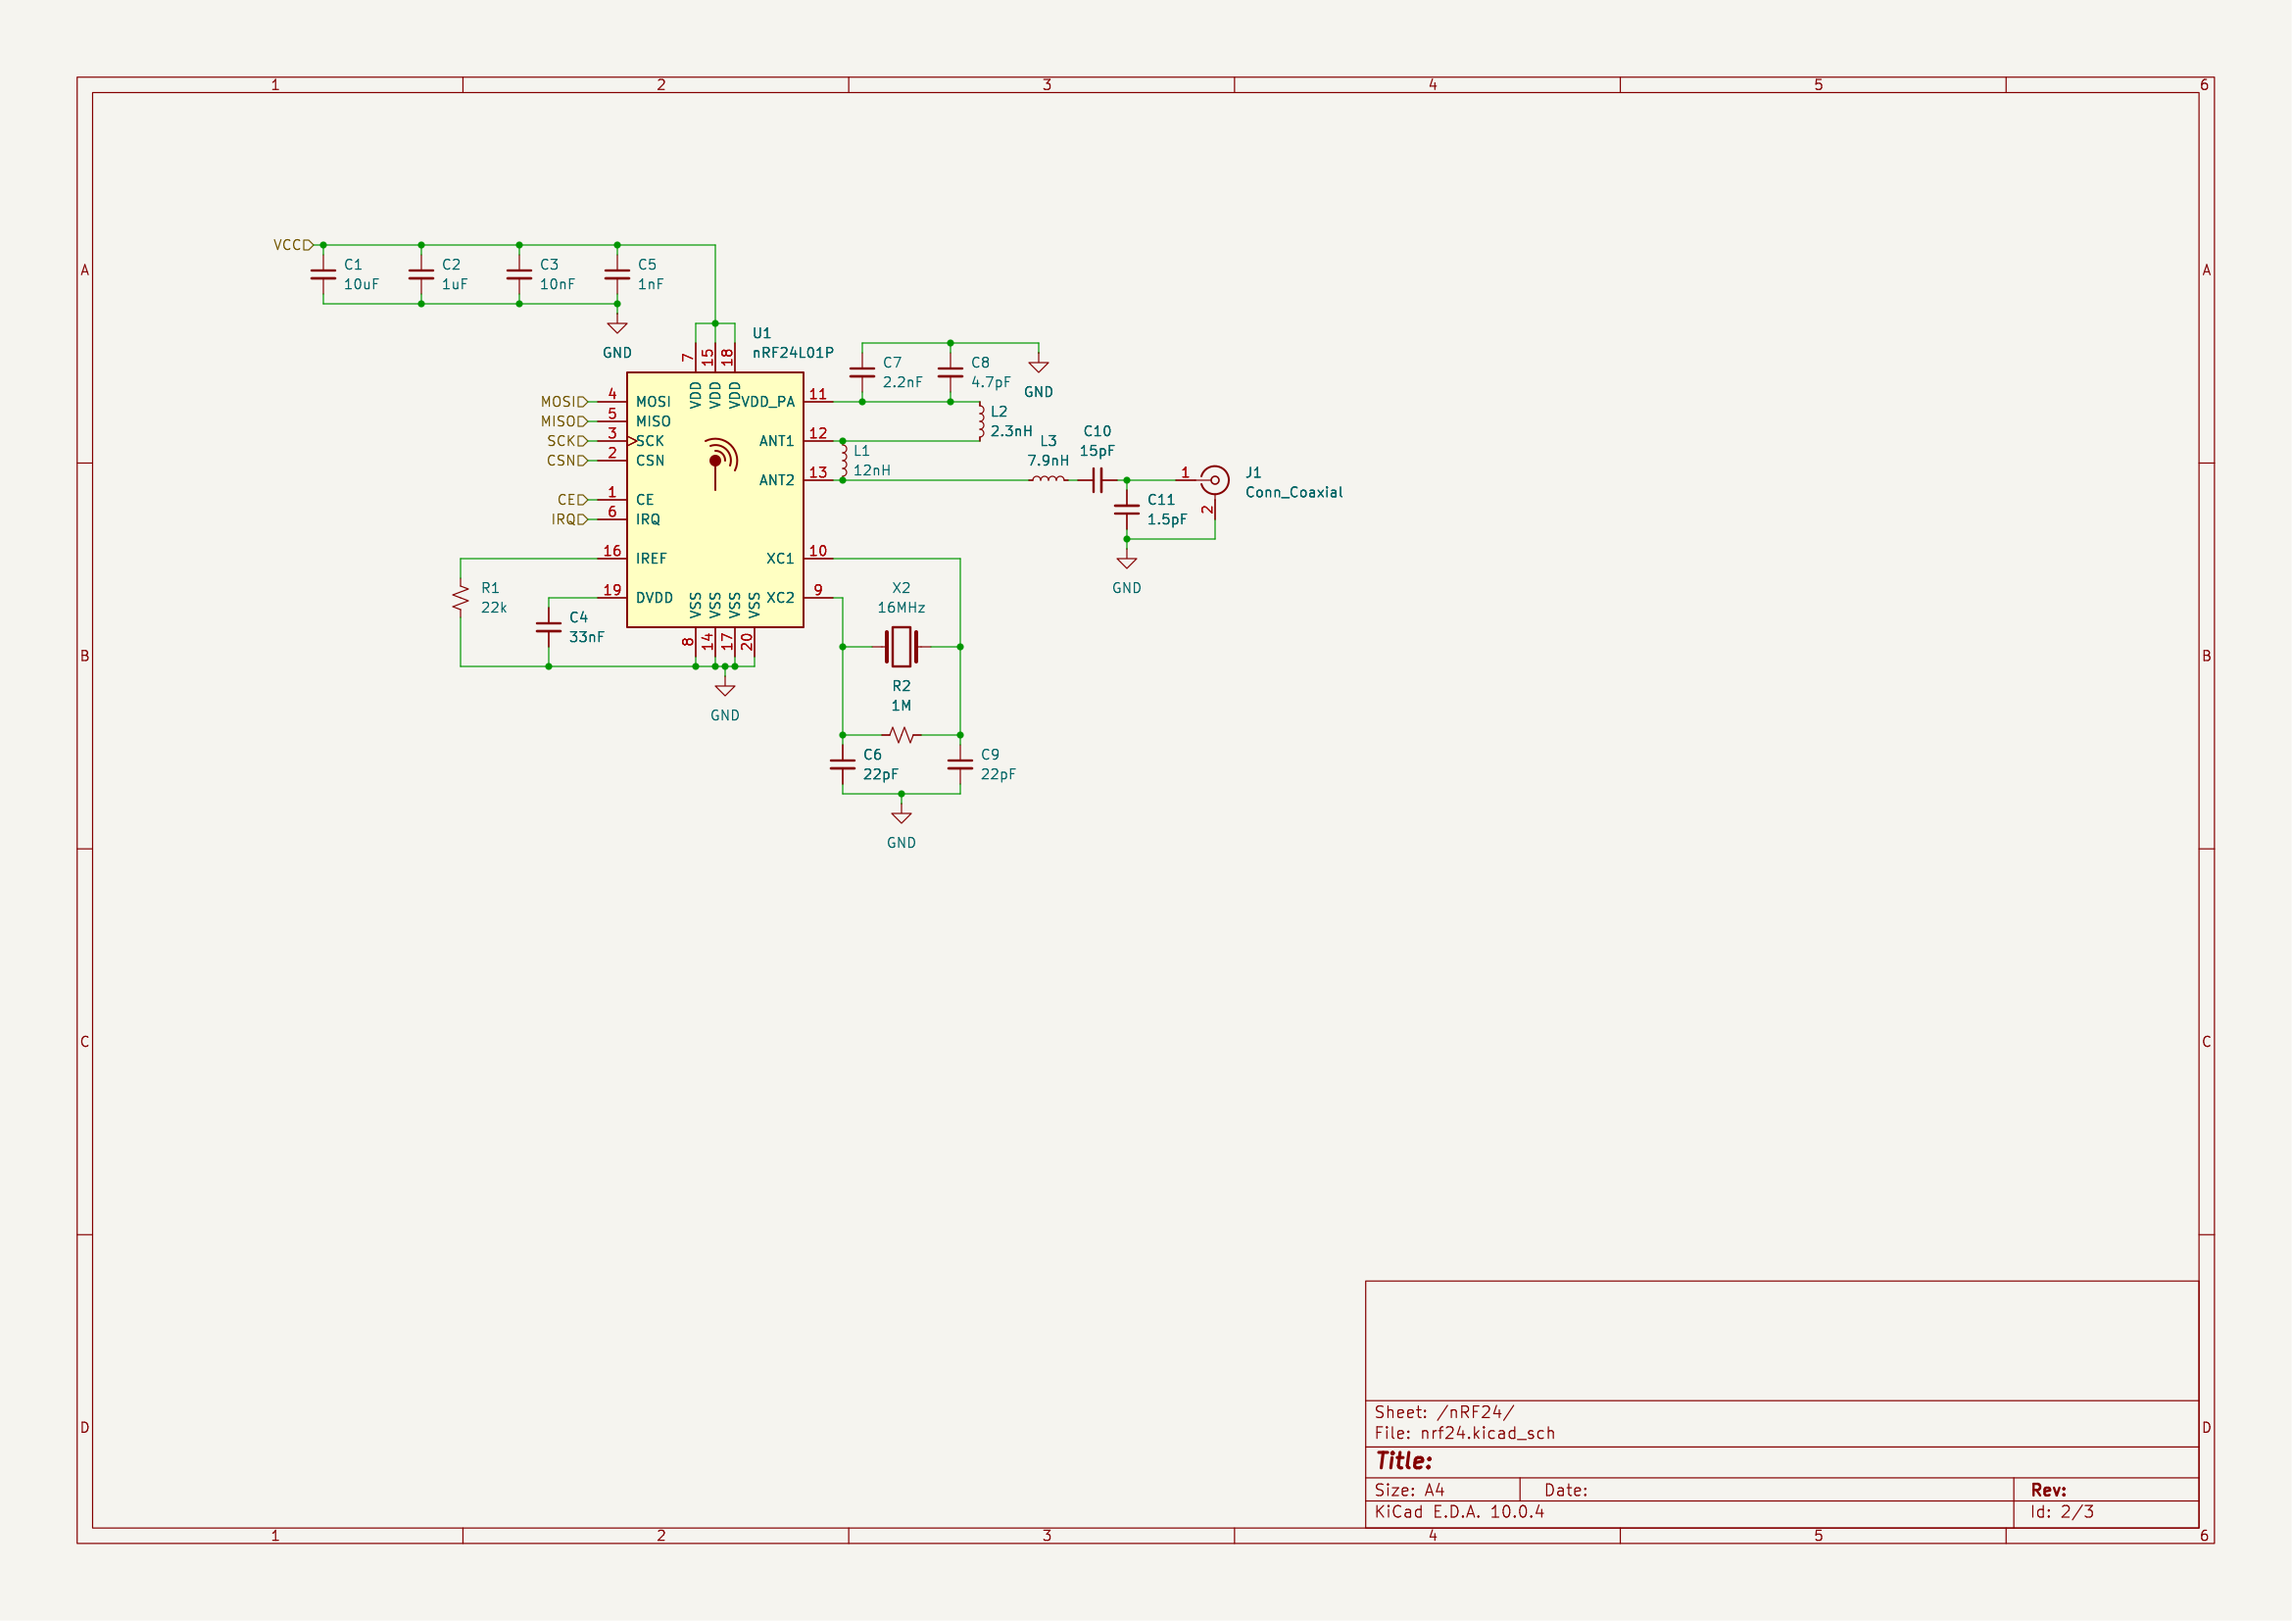
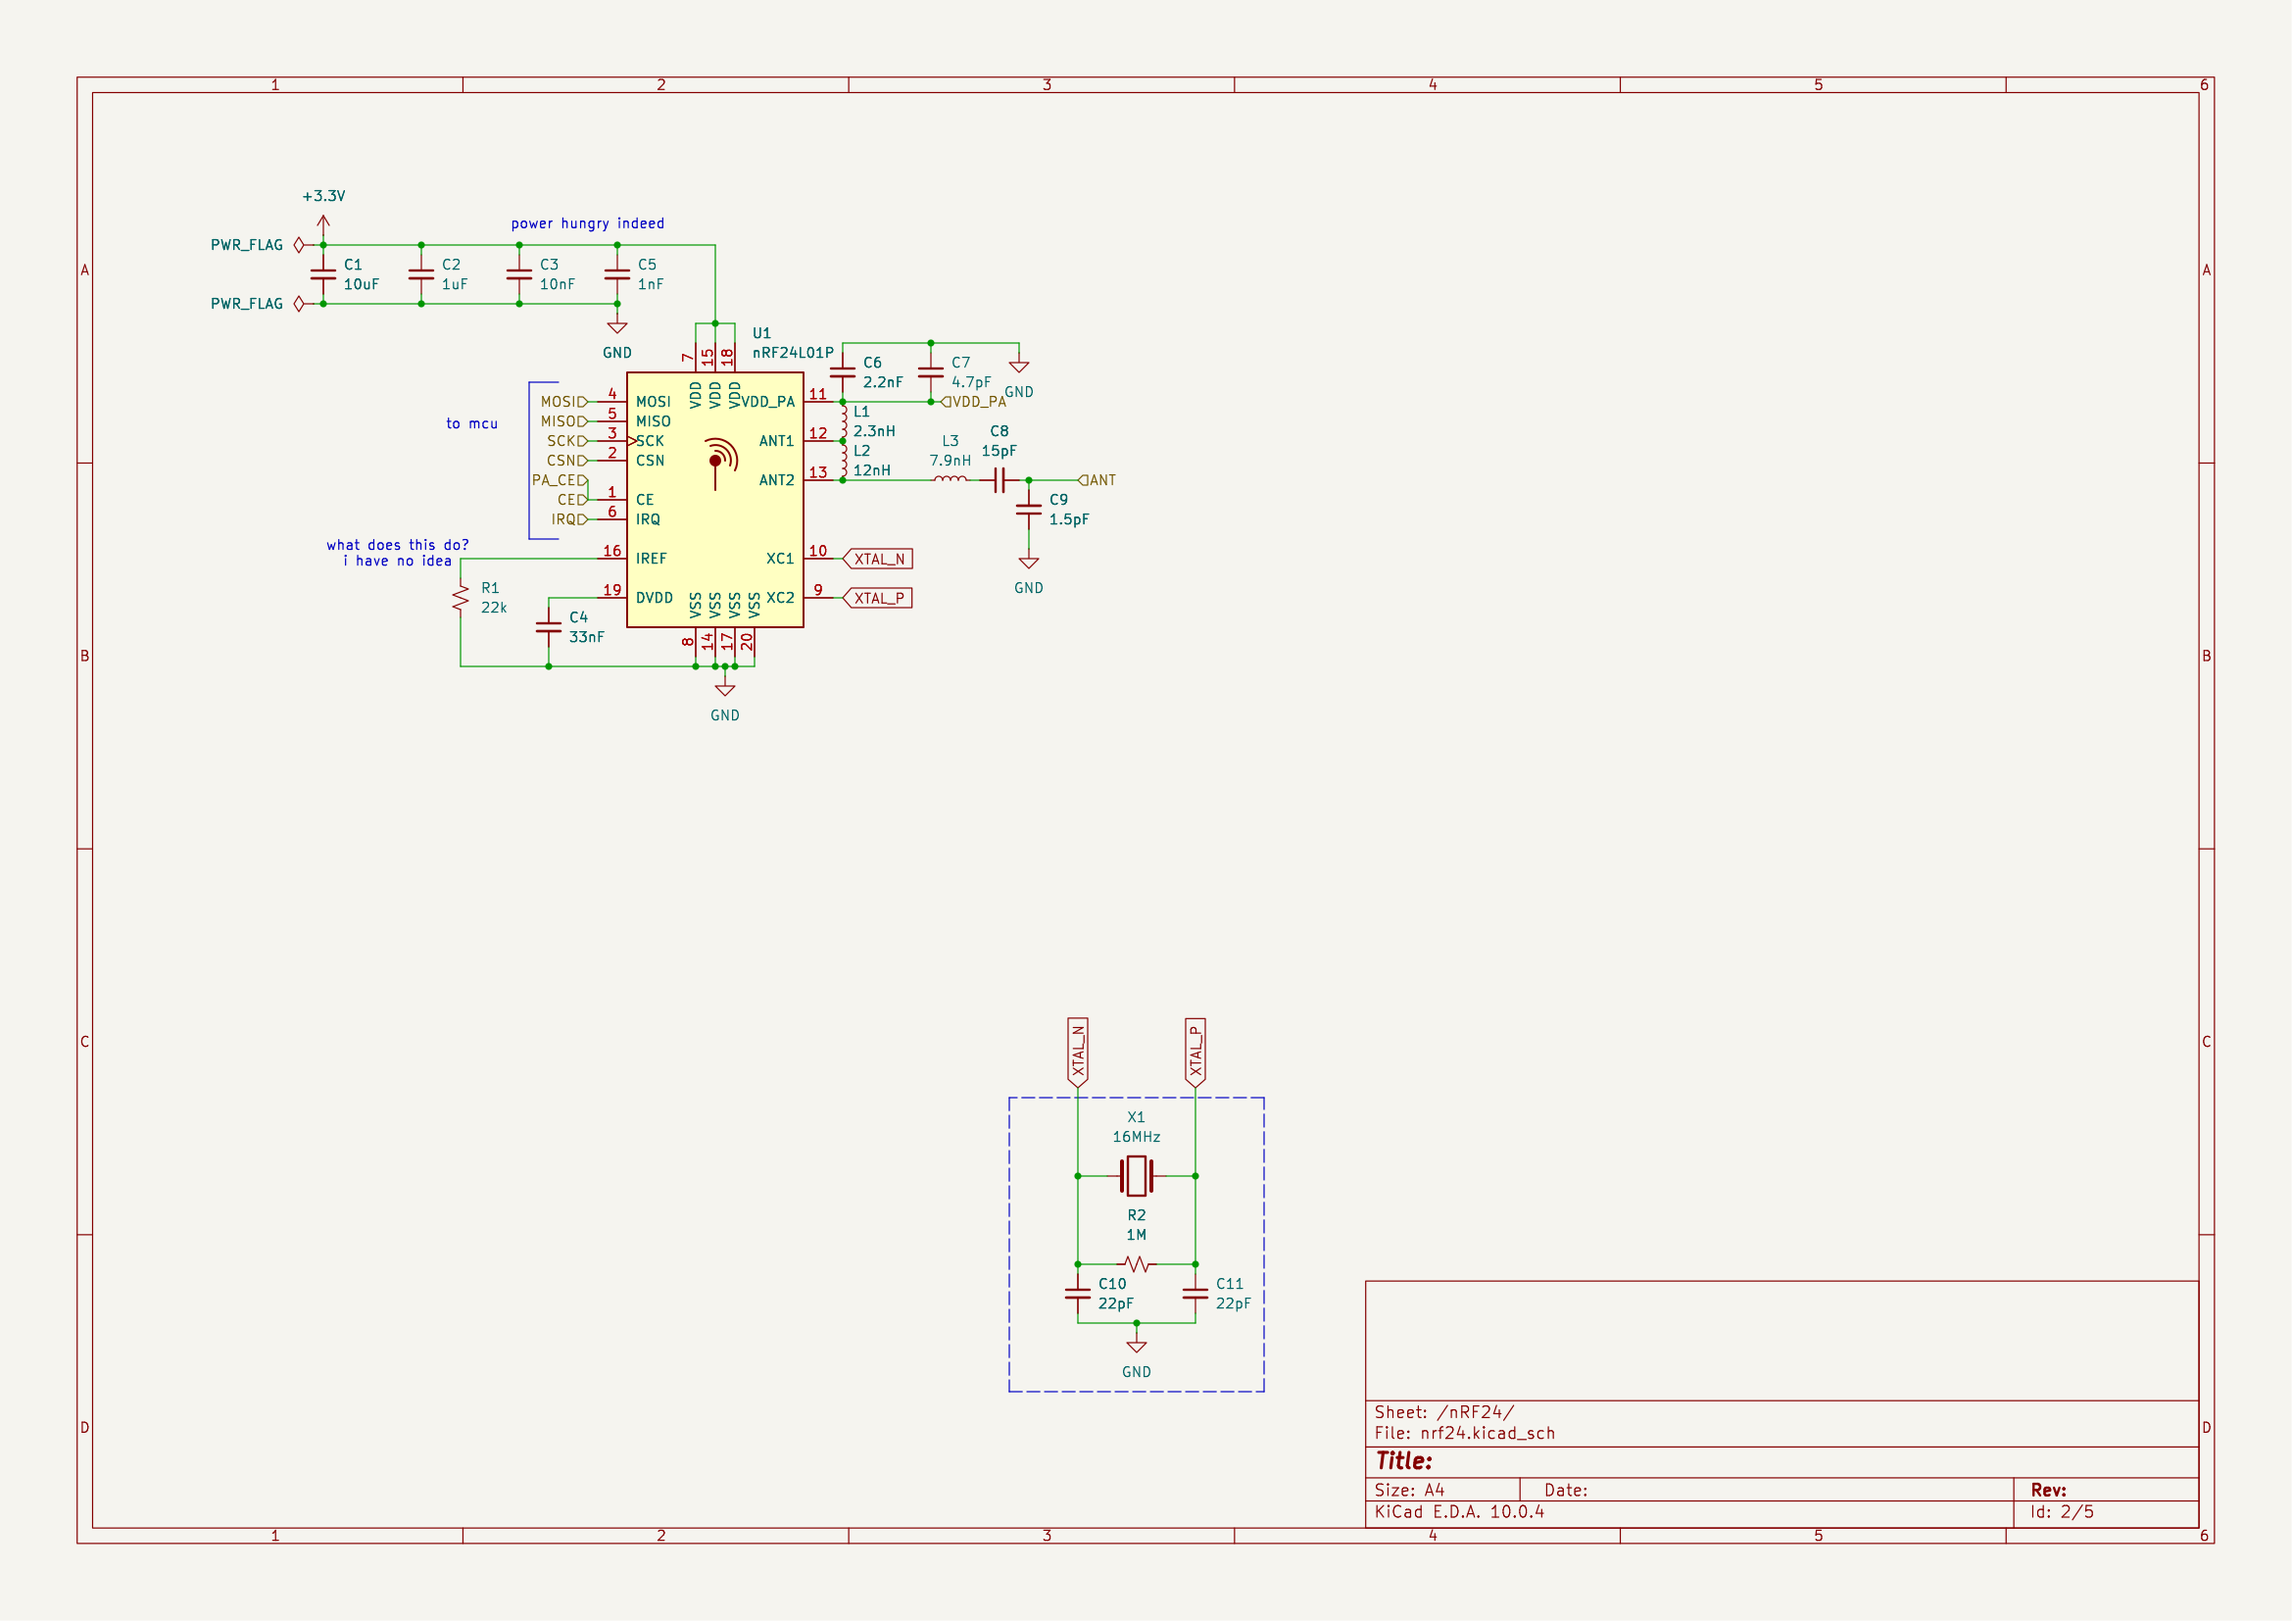
journal and reamde updates

diff --git a/README.md b/README.md
@@ -1,33 +1,60 @@
 # nRF24 Breakout Board
 
-A small module based on the nRF24L01P+, with a proper SMA jack for external antenna
-Also a breadboard friendly header
+A small module based on the nRF24L01P+, with a proper SMA jack for an external
+antenna, an on-board RFX2401C PA/LNA for extra range, and a breadboard friendly
+SPI header. Runs from 3.3V or 5V thanks to an on-board LDO.
 
 ![Radio sheet](images/schematic/02-radio.png)
 
+![PA/LNA sheet](images/schematic/04-palna.png)
+
 ## Custom Features
 
-- nRF24L01P+ - 2.4GHz transceiver
-- Discrete LC balun + harmonic filter, differential ANT1/ANT2 to 50 ohm, plus harmonic rolloff
-- SMA jack to plug in a real whip or panel antenna
+- nRF24L01P+ 2.4GHz transceiver, QFN-20
+- RFX2401C external PA/LNA on the TXRX line for roughly +20dBm in TX and LNA gain in RX
+- Discrete LC balun + harmonic filter: differential ANT1/ANT2 to a single 50 ohm line
+- LC match and DC block from the PA/LNA out to the SMA jack (0.3-2.4nH family, 1.5pF caps)
+- SMA jack (Amphenol 901-143) for a real whip or panel antenna
 - 16MHz crystal with matched load caps and bias resistor
-- power amplifier VDD filter decoupled separately from the digital rail
-- 1x08 2.54mm header for drop-in SPI control from any 3.3V MCU (even though i think it is 5v tolerant?)
+- PA supply (VDD_PA) decoupled separately from the digital rail
+- TLV75733 LDO: feed the header 3.3V or 5V and the board regulates itself
+- 1x08 2.54mm header for drop-in SPI control from any MCU
+- 2x M3 mounting holes
 
 ## How It Works
 
-The host MCU uses SPI over the header.
-The nRF24L01P+ performs some magic on the internal PA
-PA's differential outputs feed the filter network, which lands on the SMA connector as a single-ended 50 ohm antenna.
-The 16MHz crystal clock is there to keep the nRF24 in sync
+The host MCU talks SPI over the header. The nRF24L01P+ differential PA
+outputs (ANT1/ANT2) go through the LC balun and harmonic filter to become a
+single 50 ohm line, which lands on the RFX2401C PA/LNA. The PA amplifies it
+and sends it through an LC match and DC block onto the SMA jack. In the
+other direction the LNA boosts received signals back down the same line.
+
+The 16MHz crystal clocks the radio; a 1M bias resistor plus 22pF load caps
+set the oscillator up.
 
 ### Power Tree
 
-do some mermaid stuff here
+```mermaid
+graph LR
+  VIN[VIN: header pin 2 - 3.3V or 5V]
+  VIN --> LDO[U2 TLV75733]
+  LDO --> R[+3.3V rail]
+  R --> R1[U1 nRF24L01P+]
+  R --> R2[U3 RFX2401C PA/LNA]
+  R1 -->|ANT1/ANT2| Balun[LC balun + harmonic filter]
+  Balun --> R2
+  R2 --> Match[LC match + DC block]
+  Match --> SMA[J2 antenna port]
+```
 
 ## PCB Design
 
-pcb not made yet
+53.5 x 34 mm, 2-layer, 1.6mm thick. 40 footprints, fully routed first pass
+(126 tracks, 219 vias). The PA/LNA sits on the RF line between the radio and
+the SMA, which hangs off the board edge. No copper pour yet - ground returns
+must be checked before fab.
+
+![Routed board](images/pcb/04-top-final.png)
 
 ![Connector sheet](images/schematic/03-connector.png)
 
@@ -39,29 +66,31 @@ maybe SPI peripheral on an STM32/AVR host (TBD).
 
 ## Usage
 
-Wire the header to 3.3V logic, drive CE/CSN/SCK/MOSI/MISO per the nRF24L01
-datasheet, attach an antenna to SMA, then start transmitting.
+Wire the header to the MCU, drive CE/CSN/SCK/MOSI/MISO per the nRF24L01
+datasheet, attach an antenna to SMA, then start transmitting. Pin 2 takes
+3.3V or 5V - the on-board LDO handles the rest, but the logic pins still run
+at 3.3V.
 
-| Pin | Function |
-|-----|----------|
-| 1   | GND      |
-| 2   | VCC      |
-| 3   | CE       |
-| 4   | CSN      |
-| 5   | SCK      |
-| 6   | MOSI     |
-| 7   | MISO     |
-| 8   | IRQ      |
+| Pin | Function        |
+|-----|-----------------|
+| 1   | GND             |
+| 2   | VIN (3.3-5V)    |
+| 3   | CE              |
+| 4   | CSN             |
+| 5   | SCK             |
+| 6   | MOSI            |
+| 7   | MISO            |
+| 8   | IRQ             |
 
 ## BOM (Bill of Materials)
 
-Costs and supplier links not finalized yet (TBD). Silicon is the nRF24L01P+
-(QFN-20); passives are all 0603. See [BOM.csv](BOM.csv) for the full part list
-with supplier links (pending).
+Costs and supplier links not finalized yet (TBD). Silicon: nRF24L01P+
+(QFN-20), RFX2401C (QFN-16), TLV75733 LDO (SOT-23-5). Passives all 0603.
+See [BOM.csv](BOM.csv) for the full part list with supplier links (pending).
 
 | Item | Cost |
 |------|------|
-| PCB (qty 5, single layer) | TBD |
+| PCB (qty 5, 2-layer) | TBD |
 | Components (per board) | TBD |
 | **Total** | **TBD** |
 
@@ -75,6 +104,7 @@ Not built yet
 
 ```
 ├── kicad/            # PCB source files (.kicad_sch / .kicad_pcb)
+│   └── parts/        # Project-local symbol / footprint / 3D libs
 ├── images/           # Schematic exports and renders
 │   └── schematic/    # Per-sheet PNGs
 ├── BOM.csv           # Bill of materials (pending)
@@ -83,13 +113,15 @@ Not built yet
 
 ## Known Issues
 
-- Routing not started; single-layer RF needs a careful ground pour
-- 1.5pF/2.2pF harmonic caps are tight-tolerance parts - parasitics must be checked against the balun tuning
-- No firmware yet, so the board is untested
+- Board is routed but unassembled and untested
+- PA/LNA match uses tight-tolerance parts (0.3pF / 1.5pF / 2.4nH); the values may need tuning on the first real board
+- No ground pour yet; on a 2-layer board with +20dBm the return path needs checking
+- TXEN/RXEN control of the RFX2401C is wired to VDD_PA and CE through 1k resistors - direction switching is a prototype hack, revisit if it misbehaves
 
 ## Credits & Inspiration
 
-- [nRF24L01+ Product Spec](https://www.nordicsemi.com/products/nrf24l01) - reference balun/ matching values and pinout
+- [nRF24L01+ Product Spec](https://www.nordicsemi.com/products/nrf24l01) - reference balun/matching values and pinout
+- RFX2401C symbol and footprint from the incutec-KiCad-Library (OpenRX FPGA project)
 
 ## License
 

diff --git a/JOURNAL.md b/JOURNAL.md
@@ -53,3 +53,57 @@ created_at: 2026-09-20
 ![ldo](images/screenshots/2026-0921-2.png)
 
 **Total time spent: 1 hour**
+
+# September 24: PA/LNA in, board started
+
+## What I did:
+
+- Grabbed the RFX2401C symbol and footprint and dropped it on a new PA_LNA sheet (U3)
+- Wired the nRF24 balun output onto the PA input (TXRX) and the antenna pin out to an LC match + DC block
+- Control pins pulled through 1k resistors
+- Gave the SMA connector its own RF connector sheet so the RF chain is easy to read
+- Put the header and a TLV75733 LDO on the connector sheet so 5V hosts can feed the board
+- Added 2x M3 mounting holes to the root sheets
+- Grew the board from ~34x29 to 53.5x34mm, 1-layer to 2-layer, to fit the PA/LNA and its RF line
+- Placed all 40 footprints, starting the board for the routing pass
+
+## Why:
+
+- The nRF24L01P+ internal PA only does about +0dBm
+- RFX2401C adds a real PA (~+20dBm) plus an LNA, so improved range
+- The radio's PA is differential and the PA/LNA is single-ended, so the balun has to hand the RFX2401C a clean 50 ohm line, then match the PA side back to the antenna
+- Registering the parts project-local (kicad/parts/) so the schematic builds without depending on a global library
+
+## Screenshots:
+
+![PA/LNA sheet](images/schematic/04-palna.png)
+
+**Total time spent: 1 hour**
+
+# September 24: Routed the board
+
+## What I did:
+
+- Started routing at 21:09 off the 40-footprint placement
+- Routed the first signals by hand: SPI, CE, IRQ, the crystal pair, then the power nets
+- Tried a bulk auto-route pass through freerouting (DSN export) twice - both times it buried the RF traces under vias, so I undid it and did the whole thing by hand
+- Left the RF chain (balun to PA to SMA) as the cleanest, shortest run on top
+- Finished at 21:50: 126 tracks and 219 vias, mostly via fan-out for the ground return on the 2-layer stack
+
+## Why:
+
+- The 2.4GHz path is the whole point of this board, so it had to be a deliberate hand route, not whatever a bulk router churns out
+- 2-layer boards only have the one solid ground return, so I leaned on stitched vias to keep GND continuous under the RF line instead of skimping
+- The board grew to fit a proper layout: 53.5x34mm so the SMA hangs off the edge and the header stays breadboard friendly
+
+## Screenshots:
+
+![Footprints placed, no traces (20:08)](images/pcb/01-top-placement.png)
+
+![First traces going down (21:15)](images/pcb/02-top-first-traces.png)
+
+![Final board top: 126 tracks (21:50)](images/pcb/04-top-final.png)
+
+![Final board bottom: ground via web](images/pcb/03-bottom-final.png)
+
+**Total time spent: 2 hour**
